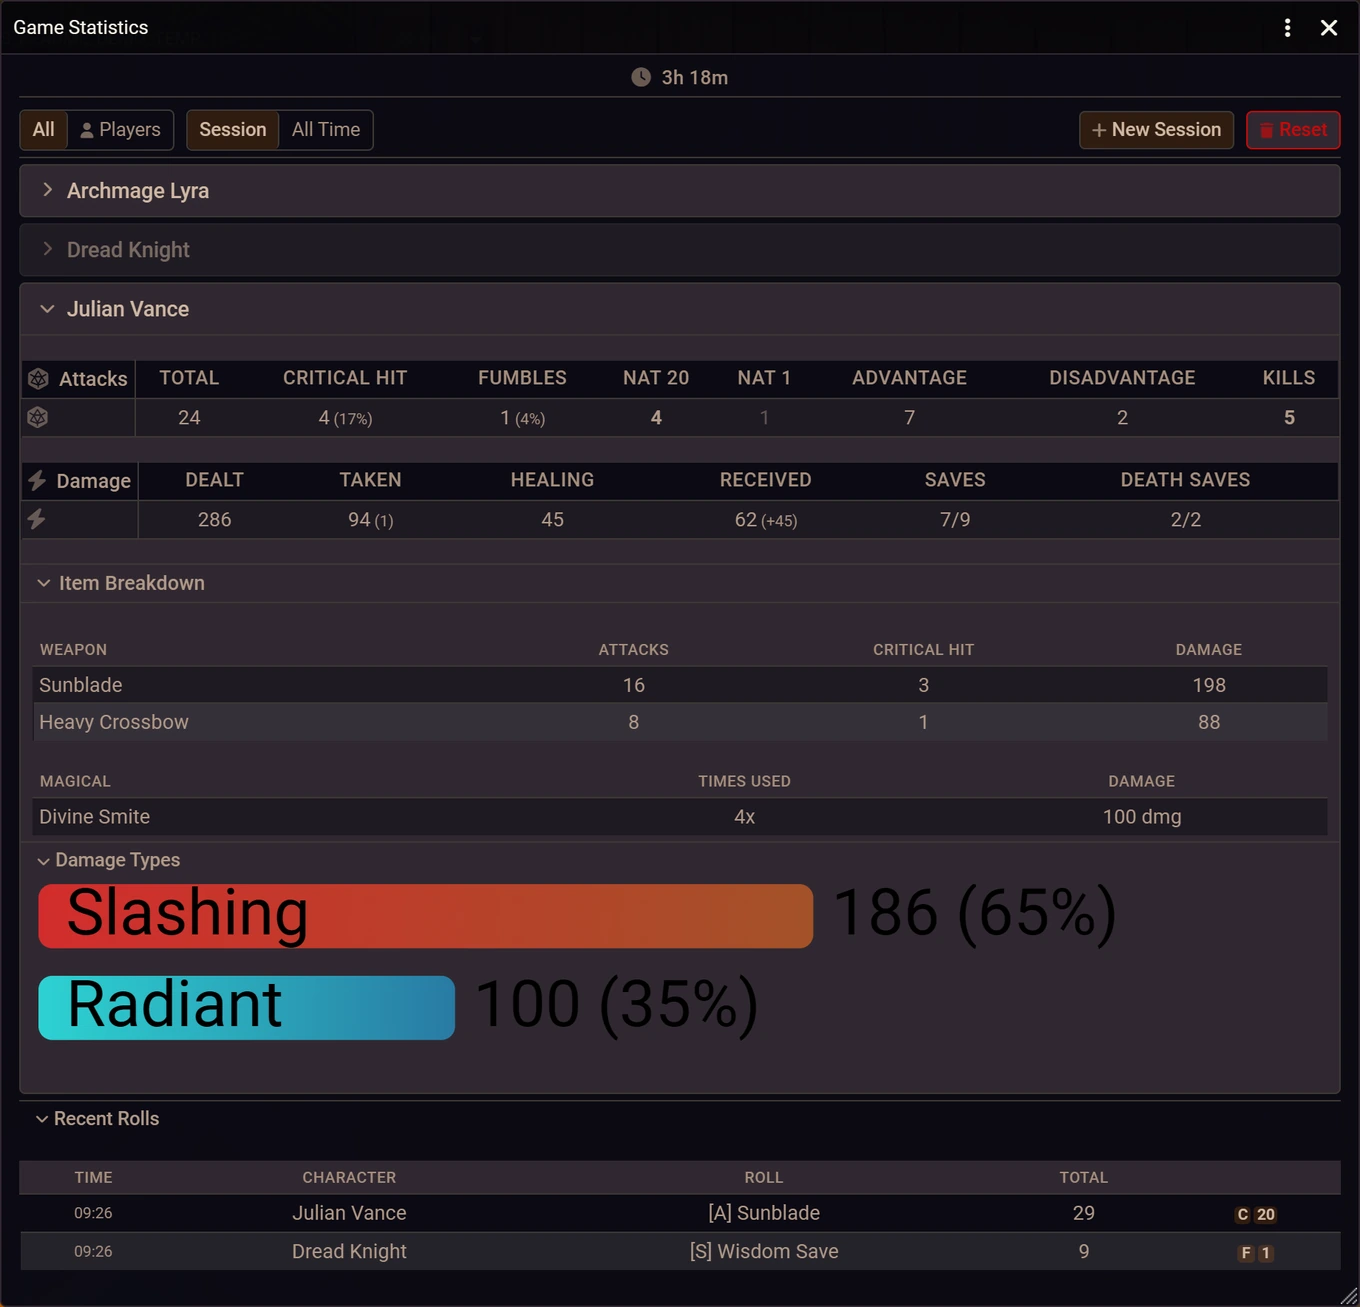
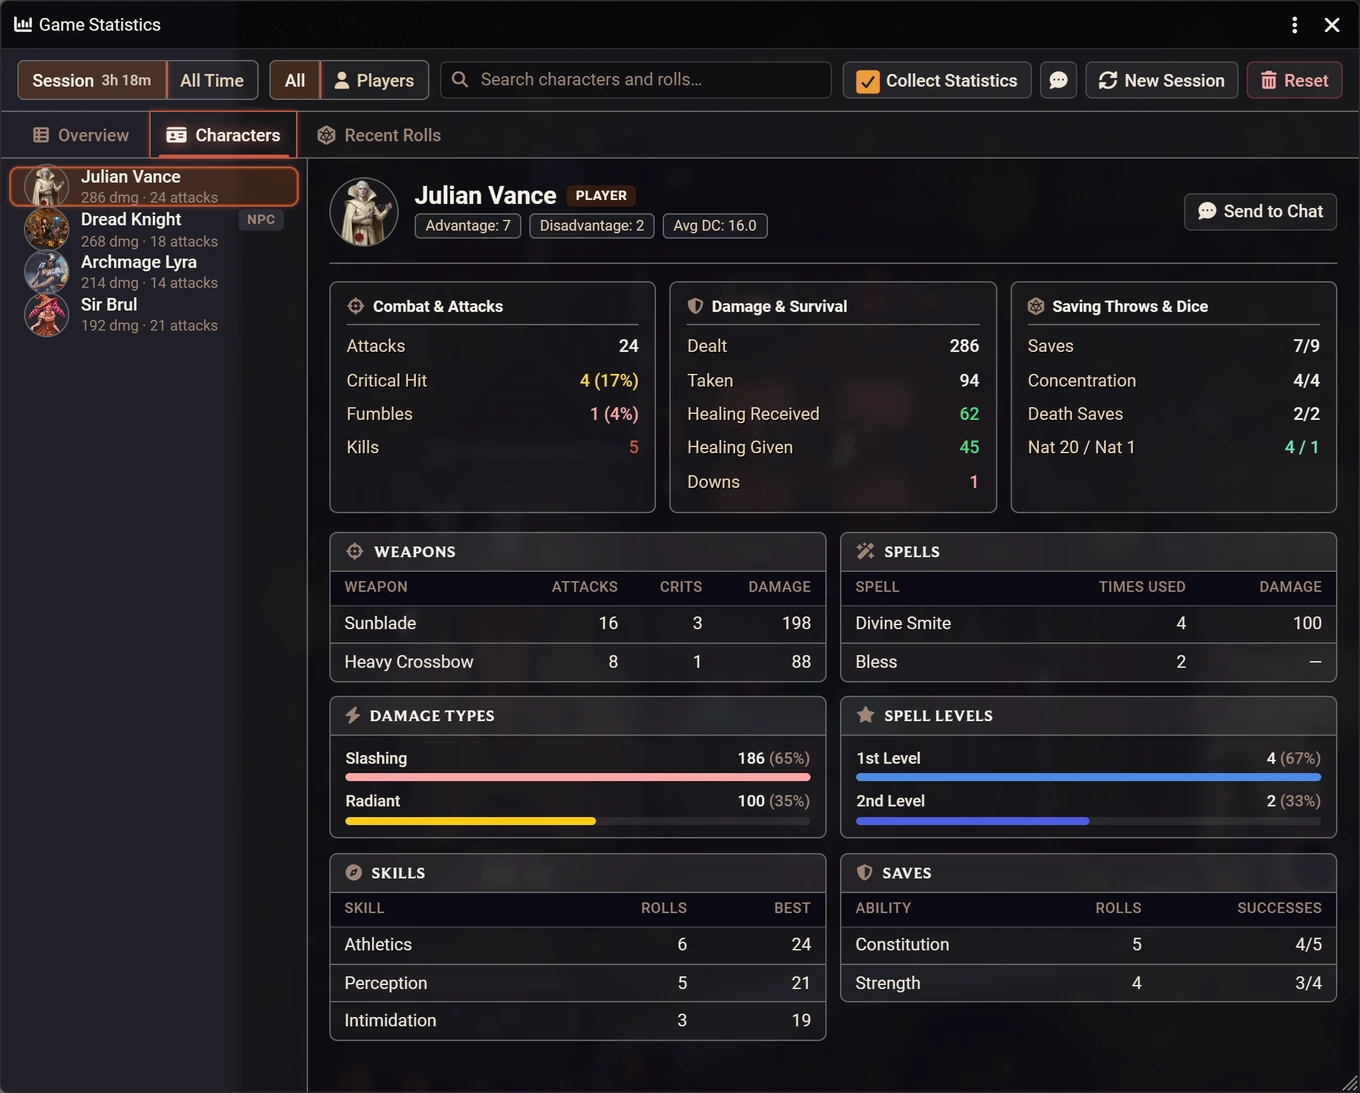
Update README and screenshots

diff --git a/README.md b/README.md
@@ -1,131 +1,69 @@
 # Showstopper
 
-Cinematic combat choreography, 2.5D token physics, dynamic blood & terrain trails, real-time GLSL token shaders, portrait overlays, and roll analytics for Foundry VTT v14+.
+Combat animations, dynamic blood, 2.5D token movement, WebGL status shaders, player portraits, and roll statistics for Foundry VTT v14.
 
-[![Foundry VTT](https://img.shields.io/badge/Foundry%20VTT-v14%2B-orange.svg)](https://foundryvtt.com/)
+[![Foundry VTT](https://img.shields.io/badge/Foundry%20VTT-v14-orange.svg)](https://foundryvtt.com/)
 [![Version](https://img.shields.io/badge/Version-14.4.0-blue.svg)](https://github.com/SweetyHake/Showstopper/releases/latest)
 [![License](https://img.shields.io/badge/License-All%20Rights%20Reserved-red.svg)](LICENSE)
 
-![Combat Choreography & Dynamic Blood Demo](screenshots/combat-blood-demo.webp)
-
-**Showstopper** brings your tabletop encounters to life with responsive attack animations, directional blood splatters, aerodynamic token flight, live WebGL status shaders, player portrait widgets, and detailed campaign roll statistics — synchronized across all connected clients over Foundry's native socket layer.
-
----
+![Combat & Blood Demo](screenshots/combat-blood-demo.webp)
 
 ## Features
 
-### Combat Choreography, Cinematic Bars & Floating Damage Numbers
-- **Attack Choreography** — Automatic melee lunges, ranged recoils, hitstop freeze frames, target knockback, and subtle camera shake triggered on hits, misses, and critical strikes.
-- **Cinematic Bars** — Smooth animated widescreen letterboxing (`showstopper.cinematicBars`) for dramatic reveals, boss entrances, and scripted scenes.
-- **Floating Damage Numbers** — Arcing canvas popups styled by damage category and critical hits (`showstopper.damageNumbers`).
-- **Sequencer & JB2A Support** — Optional integration with Sequencer and JB2A for crisp weapon slashes and impact flashes alongside core animations.
+### Combat & Blood
+- **Combat Animations** — Melee hits, misses, and shield blocks, ranged recoil and projectiles, damage-typed spell attacks, critical hit effects, letterbox bars, scene dimming, and optional camera pan.
+- **Combat Numbers** — Arcing damage, healing, and temporary HP popups colored by damage type.
+- **Blood System & Trail Brush** — Directional hit splatters, death pools, footprints, creature-type blood colors, bloodied token overlays, drying and rain wash, plus a GM canvas brush and eraser.
 
-### Dynamic Blood, Bloodied Overlay & Trail Brush
+### Token Movement & Vertical Display
 
-![Dynamic Blood, Bloodied Overlay & Trail Brush](screenshots/blood-brush.webp)
+![Token Movement & Flight Demo](screenshots/movement-flight-demo.webp)
 
-- **Physics-Driven Blood Stains** — Directional splatters, arterial bursts, lingering pools, wall-clipped sprays, and bloody footprints painted directly onto the scene canvas.
-- **Bloodied Token Overlay** — Dynamic blood coat shader applied automatically to wounded tokens as HP drops, supporting custom blood colors per actor or world.
-- **Trail brush** — Dedicated GM canvas tool featuring Brush and Eraser modes, stamp presets, size/density/opacity controls, color swatches, elevation filtering (`Q`/`E`), and one-click cleanup.
-
-### 2.5D Token Movement, Jump & Flight Physics
-
-![2.5D Token Movement, Jump & Flight Physics](screenshots/movement-flight-demo.webp)
-
-- **Fluid Movement Inertia** — Subtle walking cadence, sprint leaning, and smooth directional easing as tokens traverse the battlemap.
-- **2.5D Jump Arcs** — Parabolic leap animations triggered automatically when ascending or stepping into mid-air elevations.
-- **Aerial Flight Simulation** — Altitude-aware token scaling, aerodynamic banking on turns, gentle hover breathing idle, and dynamically offset ground shadows.
+- **Movement, Jump & Flight** — Grounded step bounce, arc jumps, mid-air flight and hover, and free-fall landing impacts, each toggleable per client.
+- **Vertical Display** — Elevation scale, ground shadows, parallax, optional depth blur, and camera zoom-out when selecting elevated tokens.
 
 ### Token Status Shaders
 
 ![Token Status Shaders](screenshots/token-shaders-demo.webp)
 
-- **Real-Time PIXI/GLSL Shaders** — Transform any token visually on the canvas without duplicating actors or replacing artwork files.
-- **7 Built-In Shader Effects** — Includes `frozen`, `petrified`, `burning`, `corrupted`, `gilded`, `bloodrage`, and `glitch`.
-- **Clean Lifecycle** — Apply, toggle, or clear shaders cleanly via script macros or module integrations with automatic canvas teardown cleanup.
+- **7 GLSL Shaders** — `frozen`, `petrified`, `burning`, `corrupted`, `gilded`, `bloodrage`, and `glitch`, applied automatically from active token conditions or via script macros.
 
-### Player Portrait Panel & Live Token Drag Preview
+### Interface & Table Tools
+- **Portrait Panel** — On-screen player avatars with voice activity, mute and AFK indicators, context actions, and an optional ping/FPS counter.
+- **Token Drag Preview** — Grid-snapped token preview on the canvas when dragging actors from the sidebar, compendiums, or portrait panel (`Shift` to ignore grid, `Alt` for ghost preview).
+- **Vignettes, Smooth Camera & Inventory+** — Screen-edge vignettes for low health, active conditions, and HP flashes; smooth camera pan and zoom; item gain/loss toasts and rarity highlights in sheets and tooltips.
 
-![Player Portrait Panel & Live Token Drag Preview](screenshots/portraits-drag-preview.webp)
+### Game Statistics
 
-- **Player Portrait Panel** — Persistent party strip with active voice-speaking highlights, mute badges, subtle HP damage indicators, and a live network latency & FPS widget.
-- **Live Token Drag Preview** — Renders full-scale pixel-accurate PIXI token previews (including dynamic Token Rings and wildcard artwork) snapped directly to the grid when dragging from the Portrait Panel, Actor Directory, or Compendiums. Hold `Shift` to place unsnapped or `Alt` for a translucent ghost preview.
+![Game Statistics](screenshots/roll-stats.webp)
 
-### Screen Vignette, Smooth Camera & Inventory+ Notifications
+- **Session & All-Time Stats** — **Overview** tables, per-character combat, survival, weapon, spell, and damage-type breakdowns, and a **Recent Rolls** feed with search, player filter, and chat export.
 
-![Screen Vignette & Inventory Notifications](screenshots/vignette-inventory.webp)
+## Developer API
 
-- **Screen Vignette** — Multi-layered viewport vignette effects (`showstopper.vignette`) with customizable hex colors, intensity, radius, and fade timing.
-- **Smooth Camera** — Fluid pan and zoom interpolation for seamless GM camera framing.
-- **Inventory+ Notifications** — Compact rarity-colored toast alerts triggered automatically whenever characters receive, lose, or loot items.
+Showstopper exposes its public API at `globalThis.showstopper` (and `game.modules.get('showstopper').api`) for custom cut-ins (`introductions`, `openings`, `endings`, `finishers`), token shaders, blood effects, cinematic bars, and vignettes.
 
-### Session & Campaign Roll Statistics
-
-![Game Statistics Window](screenshots/roll-stats.webp)
-
-- **Comprehensive Combat Analytics** — Tracks attacks, hits, critical hits, fumbles, natural 20s/1s, advantage/disadvantage usage, kills, damage dealt/taken, healing, saving throws, and death saves across **Session** and **All Time** scopes.
-- **Item Breakdown & Charts** — Drill down per character into weapon usage, spells cast, skills, tools, and interactive **Damage Types** bar charts alongside a **Recent Rolls** feed.
-- **GM Controls** — Filter by all combatants or player characters only, start fresh session counters, or reset tracked statistics on demand.
-
----
-
-## Extensible Cinematic Framework & Developer API
-
-Showstopper Core also ships a lightweight cinematic extension framework supporting four cut-in categories (`introductions`, `openings`, `endings`, and `finishers`), per-actor intro configuration, procedural Web Audio synthesis helpers, and unified canvas effect lifecycle tracking.
-
-Core ships cleanly with **zero bundled cut-in presets** — register your own custom sequences or drive subsystems directly via `globalThis.showstopper` (also exposed at `game.modules.get('showstopper').api`):
-
-```js
-// Register a custom introduction sequence
-showstopper.cutIns.register({
-  id: 'custom-spotlight',
-  category: 'introductions',
-  icon: 'fas fa-star',
-  async play(ctx) {
-    // Custom cinematic camera, UI titles, and procedural synth choreography
-  }
-});
-
-// Apply a GLSL status shader to a selected token
-const token = canvas.tokens.controlled[0];
-showstopper.finishers.shaders.apply(token, 'burning');
-
-// Trigger directional blood splatters & a crimson screen vignette
-showstopper.blood.splat(token, { impact: 1.0, dir: 0 });
-await showstopper.vignette.show('#b91c1c', { layer: 'combat', intensity: 0.7, fadeIn: 300 });
-```
-
-See the [Showstopper Wiki](https://github.com/SweetyHake/Showstopper/wiki) for full configuration guides, macro examples, and extension SDK documentation.
-
----
+See the [Showstopper Wiki](https://github.com/SweetyHake/Showstopper/wiki) for configuration details, macro examples, and SDK documentation.
 
 ## Installation
 
-### Manifest URL (Recommended)
-In Foundry VTT **Setup -> Add-on Modules -> Install Module**, paste the Manifest URL:
+Paste the manifest URL in **Setup -> Add-on Modules -> Install Module**:
 
 ```text
 https://github.com/SweetyHake/Showstopper/releases/latest/download/module.json
 ```
 
-### Manual Installation
-1. Download `showstopper.zip` from the [Latest Release](https://github.com/SweetyHake/Showstopper/releases/latest).
-2. Extract its contents into `<FoundryData>/Data/modules/showstopper`.
-3. Enable **Showstopper** inside your Foundry VTT v14 world.
+Or extract `showstopper.zip` from the [Latest Release](https://github.com/SweetyHake/Showstopper/releases/latest) into `<FoundryData>/Data/modules/showstopper`.
 
----
+## Compatibility
 
-## Compatibility & Languages
+- **Foundry VTT**: v14 (`socketlib` not required).
+- **Systems**: Built-in **D&D 5e (`dnd5e`)** hooks for combat animations, flight speed, and roll tracking; canvas shaders, portraits, camera, vignettes, and trail brush work in any system.
+- **Optional Modules**: **Sequencer**, **JB2A**, **midi-qol**.
+- **Languages**: English (`en`), Russian (`ru`).
 
-- **Foundry VTT**: Strictly **v14+** (`verified: "14"`). Uses Foundry's built-in `module.showstopper` socket channel (`socketlib` is **not** required).
-- **Game Systems**: Deep integration for **D&D 5e (`dnd5e`)** attack/damage triggers, flight speed, and roll analytics, while core canvas effects, portraits, shaders, camera, and vignettes work system-agnostically.
-- **Optional Modules**: **Sequencer** + **JB2A** (recommended for enhanced melee slash and hit VFX).
-- **Languages**: Full **English (`en`)** and **Russian (`ru`)** localization.
+## License
 
----
+Created by **[SweetyHake](https://github.com/SweetyHake)** · [Issues](https://github.com/SweetyHake/Showstopper/issues) · [Wiki](https://github.com/SweetyHake/Showstopper/wiki)
 
-## Author & License
-
-Created by **[SweetyHake](https://github.com/SweetyHake)** · [Report Issues](https://github.com/SweetyHake/Showstopper/issues)
-
-Distributed under a Proprietary Personal-Use License (`All Rights Reserved`). See [LICENSE](LICENSE) for full terms.
+Proprietary personal-use license (`All Rights Reserved`). See [LICENSE](LICENSE).
